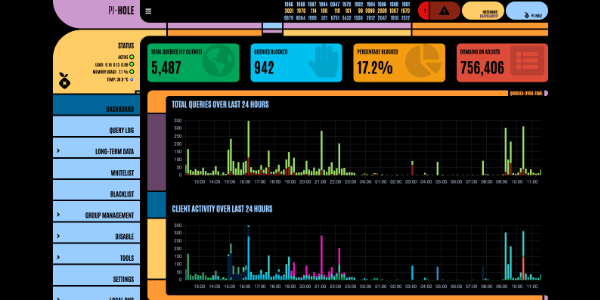
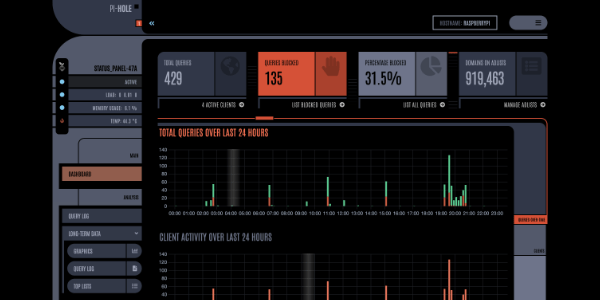
UPDATE - Link for Behance profile + LCARS project

diff --git a/src/components/Intro/Intro.js b/src/components/Intro/Intro.js
@@ -4,6 +4,7 @@ import {graphql, useStaticQuery} from "gatsby"
 import IconGithub from "./images/github.inline.svg"
 import IconLinkedIn from "./images/linkedin.inline.svg"
 import IconMail from "./images/mail.inline.svg"
+import IconBehance from "./images/behance.inline.svg"
 import Arrow from "./images/arrow.inline.svg"
 
 export default function Intro() {
@@ -17,6 +18,7 @@ export default function Intro() {
 		        github
 		        email
 		        linkedIn
+		        behance
 		      }
 		    }
 		  }
@@ -24,7 +26,7 @@ export default function Intro() {
 	`)
 
 	const {name, description, contact} = introData.site.siteMetadata
-	const {github, email, linkedIn} = contact
+	const {github, email, linkedIn, behance} = contact
 
 	const [state, setState] = useState({
 		visibility: false
@@ -110,6 +112,14 @@ export default function Intro() {
 								<a href={linkedIn} target="_blank" rel="noopener noreferrer" className="intro__link">
 									<IconLinkedIn />
 									<span className="hide-me">I am on LinkedIn</span>
+								</a>
+							</li>
+						}
+						{behance &&
+							<li>
+								<a href={behance} target="_blank" rel="noopener noreferrer" className="intro__link">
+									<IconBehance />
+									<span className="hide-me">Some of my work on Behance</span>
 								</a>
 							</li>
 						}

diff --git a/gatsby-config.js b/gatsby-config.js
@@ -4,7 +4,8 @@ const siteMetadata = {
 	description: "Self-taught frontend developer with more than 10 years of experience. Strong flair for design and UX, privacy and digital minimalism enthusiast.",
 	email: "write@svatos.dev",
 	github: "https://github.com/MichalSvatos",
-	linkedIn: "https://www.linkedin.com/in/michalsvatos"
+	linkedIn: "https://www.linkedin.com/in/michalsvatos",
+	behance: "https://www.behance.net/michalsvatos"
 }
 
 module.exports = {
@@ -66,7 +67,8 @@ module.exports = {
 		contact: {
 			email: siteMetadata.email,
 			github: siteMetadata.github,
-			linkedIn: siteMetadata.linkedIn
+			linkedIn: siteMetadata.linkedIn,
+			behance: siteMetadata.behance
 		}
 	},
 }

diff --git a/src/components/Intro/_intro.scss b/src/components/Intro/_intro.scss
@@ -81,11 +81,12 @@ $animation-timing: 350ms;
 			animation: fadeMeInLeft 2000ms ($animation-timing * 2) $easeOutExpo forwards;
 		}
 
-		&:nth-child(2) {
+		&:nth-child(2),
+		&:nth-child(3) {
 			animation: fadeMeIn 2000ms ($animation-timing * 2) $easeOutExpo forwards;
 		}
 
-		&:nth-child(3) {
+		&:nth-child(4) {
 			animation: fadeMeInRight 2000ms ($animation-timing * 2) $easeOutExpo forwards;
 		}
 	}
@@ -205,6 +206,7 @@ $animation-timing: 350ms;
 
 		&:after {
 			content: 'MS';
+			white-space: nowrap;
 		}
 
 		span {

diff --git a/src/components/TimeCircuits/TimeCircuits.js b/src/components/TimeCircuits/TimeCircuits.js
@@ -110,7 +110,7 @@ export default function TimeCircuits() {
 				</div>
 				<div className="timecircuits__year">
 					{/*TODO: [NTH] Timecircuits - dynamic year*/}
-					<span className="timecircuits__inner">2022</span>
+					<span className="timecircuits__inner">2023</span>
 				</div>
 			</div>
 			<a href="#main" className="timecircuits__back-to-the-future" title="GO UP. To the future!">

diff --git a/src/projects/2022-lcars/lcars.md b/src/projects/2022-lcars/lcars.md
@@ -2,18 +2,18 @@
 title: Pi-hole LCARS Theme
 tags: ["CSS", "UI design"]
 slug: lcars
-year: 2022
+year: 2023
 url:
+- title: Source code (NEW VERSION 2023)
+  link: https://github.com/MichalSvatos/pi-hole-star-trek-picard
 - title: Source code
   link: https://github.com/MichalSvatos/pi-hole-lcars-next-gen
-- title: Source code (alternate new version 2023)
-  link: https://github.com/MichalSvatos/pi-hole-star-trek-picard
 - title: Pi-hole - Network-wide ad blocking
   link: https://pi-hole.net/
 timeperiod: present
 featured: images/featured.png
-collectionThumbs: ["images/collection/thumbs/hp.png", "images/collection/thumbs/settings.png", "images/collection/thumbs/group.png", "images/collection/thumbs/picard.png"]
-collection: ["images/collection/hp.png", "images/collection/settings.png", "images/collection/group.png", "images/collection/picard.png"]
+collectionThumbs: ["images/collection/thumbs/picard-hp.png", "images/collection/thumbs/picard-system.png", "images/collection/thumbs/hp.png", "images/collection/thumbs/settings.png", "images/collection/thumbs/group.png"]
+collection: ["images/collection/picard-hp.png", "images/collection/picard-system.png", "images/collection/hp.png", "images/collection/settings.png", "images/collection/group.png"]
 statusText: under active development
 status: active 
 owner: Personal project

diff --git a/README.md b/README.md
@@ -2,6 +2,10 @@
 Code of **[svatos.dev](https://svatos.dev)** which is my portfolio and coding playground at the same time. The theme of the website is a classic - **Back To the Future**. Easter eggs for fans included ;)
 ***
 ## Changelog
+**1.2.0**
+- UPDATE - Link for Behance profile
+- UPDATE - Updated images in LCARS theme project
+
 **1.1.4**
 - UPDATE - New WIP "Picard" theme added to Pi-hole section
 
